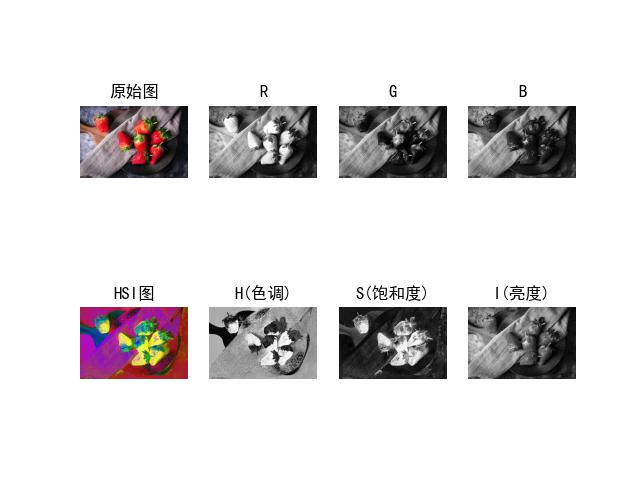
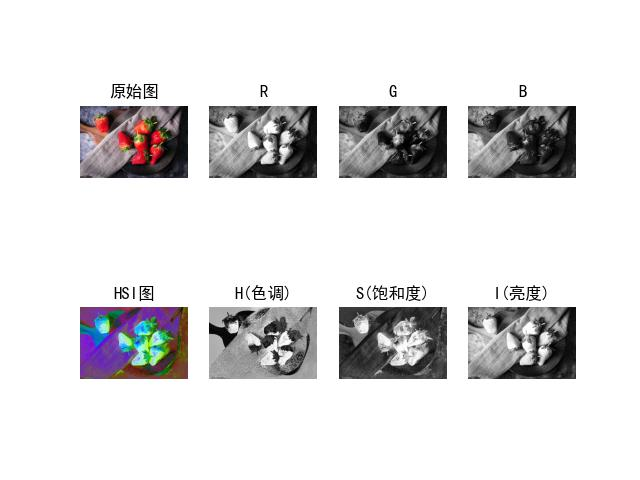
main

Changed region(s): [[0.5312, 0.625, 0.875, 0.8125], [0.125, 0.625, 0.3125, 0.8125]]

diff --git a/D/main.py b/D/main.py
@@ -6,15 +6,6 @@ import numpy as np
 plt.rcParams['font.sans-serif'] = ['SimHei']
 plt.rcParams['axes.unicode_minus'] = False
 
-
-# 定义显示一张图片函数
-def imshow(image):
-    if image.ndim == 2:
-        plt.imshow(image, cmap='gray')                     # 指定为灰度图像
-    else:
-        plt.imshow(cv.cvtColor(image, cv.COLOR_BGR2RGB))
-
-
 # 定义坐标数字字体及大小
 def label_def():
     plt.xticks(fontproperties='Times New Roman', size=8)
@@ -25,45 +16,10 @@ def label_def():
 # 读取图片
 img = cv.imread('../img/image2.png', 1)    # 读取彩色图片
 
-
-# RGB到HSI的变换
-def rgb2hsi(image):
-    b, g, r = cv.split(image)                    # 读取通道
-    r = r / 255.0                                # 归一化
-    g = g / 255.0
-    b = b / 255.0
-    eps = 1e-6                                   # 防止除零
-
-    img_i = (r + g + b) / 3                      # I分量
-
-    img_h = np.zeros(r.shape, dtype=np.float32)
-    img_s = np.zeros(r.shape, dtype=np.float32)
-    min_rgb = np.zeros(r.shape, dtype=np.float32)
-    # 获取RGB中最小值
-    min_rgb = np.where((r <= g) & (r <= b), r, min_rgb)
-    min_rgb = np.where((g <= r) & (g <= b), g, min_rgb)
-    min_rgb = np.where((b <= g) & (b <= r), b, min_rgb)
-    img_s = 1 - 3*min_rgb/(r+g+b+eps)                                            # S分量
-
-    num = ((r-g) + (r-b))/2
-    den = np.sqrt((r-g)**2 + (r-b)*(g-b))
-    theta = np.arccos(num/(den+eps))
-    img_h = np.where((b-g) > 0, 2*np.pi - theta, theta)                           # H分量
-    img_h = np.where(img_s == 0, 0, img_h)
-
-    img_h = img_h/(2*np.pi)                                                       # 归一化
-    temp_s = img_s - np.min(img_s)
-    temp_i = img_i - np.min(img_i)
-    img_s = temp_s/np.max(temp_s)
-    img_i = temp_i/np.max(temp_i)
-
-    image_hsi = cv.merge([img_h, img_s, img_i])
-    return img_h, img_s, img_i, image_hsi
-
 if __name__ == '__main__':                                           # 运行当前函数
-    h, s, i, hsi = rgb2hsi(img)                                 # RGB到HSI的变换
-
-    im_b, im_g, im_r = cv.split(img)                            # 获取RGB通道数据
+    hsi = cv.cvtColor(img, cv.COLOR_BGR2HSV)   # BGR到HSI的变换
+    h, s, i = cv.split(hsi)                    # 获取HSI通道数据
+    im_b, im_g, im_r = cv.split(img)           # 获取RGB通道数据
 
     plt.subplot(241), plt.imshow(cv.cvtColor(img, cv.COLOR_BGR2RGB)), plt.title('原始图'), label_def()
     plt.subplot(242), plt.imshow(im_r, 'gray'), plt.title('R'), label_def()

diff --git a/C/main.py b/C/main.py
@@ -19,7 +19,7 @@ plt.imshow(img, cmap="gray")
 img_Sobelx=cv.Sobel(img, cv.CV_64F, 1, 0, ksize=3)
 img_Sobelx = np.uint8(np.absolute(img_Sobelx))
 plt.subplot(132)
-plt.title("2.Roberts锐化后")
+plt.title("2.Sobel锐化后")
 plt.axis('off')
 plt.imshow(img_Sobelx, cmap="gray")
 
